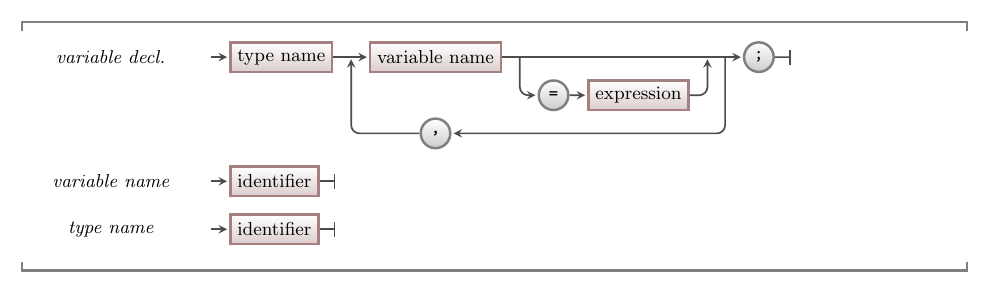
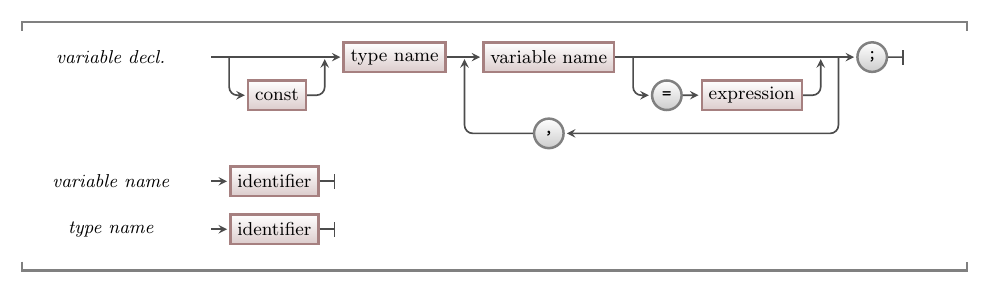
progress variables

Changed region(s): [[0.2128, 0.1229, 0.9119, 0.5222], [0.3343, 0.3993, 0.4863, 0.5222], [0.7295, 0.43, 0.8511, 0.4608]]

diff --git a/src/content/docs/book/part-1-instructions/1-sequence-and-data/1-concepts/08-variable.md b/src/content/docs/book/part-1-instructions/1-sequence-and-data/1-concepts/08-variable.md
@@ -1,5 +1,5 @@
 ---
-title: "Variable"
+title: "Variable and Constant"
 ---
 
 While fixed values are useful, to make programs dynamic you need to be able to work with values that change.
@@ -20,18 +20,37 @@ You need to initialise the variable with a starting value, and you can then read
 
 This is where you start to build your digital reality. Within this reality, you can capture simple values and change these within your code.
 
+## Constants
+
+A **constant** is just like a variable, but its value cannot be changed. Constants are declared within a program and must be given a value when they are created. Once they are created, the value within the constant cannot be changed. This is useful for data that should not change during the program's execution.
+
+<a id="FigureConstant"></a>
+
+![Figure 5.13 Constants have a value that cannot be changed](./images/constant.png "Constants have a value that cannot be changed")
+<div class="caption"><span class="caption-figure-nbr">Figure 5.13: </span> Constants have a value that cannot be changed</div><br/>
+
+## Constants - why, when, and how
+
+*Literals are values that are fixed within the code, so why do we need constants?*
+
+With programming, the biggest challenge is making sure your code is **understandable**. Scattering your program with literal values becomes confusing very quickly. When you see a value like *10* in the code it doesn't mean much - and potentially could represent anything. There will often be lots of these values that are easy to lose track of. Using a **constant** lets you name the value - giving it meaning. When you see `MAX_ITEMS` in the code, you are reminded of its meaning.
+
+Another advantage of using a set constant is that you can change the value in one place. If you want to change the maximum number of items in your pack from 10 to 42, you change it in one place. Updating the value of the constant means that everywhere that reads it will get the new value.
+
 ## In C#
 
-A variable declaration creates a variable in your code. [Figure 5.18](#FigureVariableSyntax) shows the syntax for variable declarations in C#.
+Variable and constant declarations can be described at the same time. [Figure 5.18](#FigureVariableSyntax) shows the syntax for creating a variable or constant in C#. The difference between a variable and a constant is the `const` keyword at the start of the declaration. If you include `const`, you are creating constants. Without it, you are creating variables.
 
 :::tip[Syntax]
 
-- This is the C# Syntax for creating a variable.
-- In C#, the variable declaration starts with the [Type](../06-type) name indicating the kind of data that will be stored.
-- Following the type is a list of the identifiers for the variables you are creating.
-- You can create one or more variables in a single variable declaration, but all of these variables will have the same type.
-- Each variable can be assigned a value when it is declared.
-- The **const** modifier can be added to the start of a variable declaration to create a constant.
+- This is the C# Syntax for creating variables and constants.
+- Add the `const` keyword to the start, to create constants.
+- Next, the [Type](../06-type) indicates the kind of data the constants or variables will store.
+- Following the type is a list of the names (identifiers) for the variables or constants you are creating.
+- You can create one or more variables/constants in a single declaration, all with the same type.
+- Each variable can be assigned a value when it is declared, and constants need to be given their value.
+- By convention, all constants should have an **UPPERCASE** name. Where the name has multiple words, separate them with underscores (`_`). For example: `MAX_ITEMS`.
+- Variables should have a **camelCase** name - where the first letter is lowercase, but each new word in the identifier starts with an uppercase character. For example, `bottleVolume`.
 
 <a id="FigureVariableSyntax"></a>
 
@@ -44,7 +63,7 @@ A variable declaration creates a variable in your code. [Figure 5.18](#FigureVar
 
 ### Basic Example
 
-In this program, we want to capture the user's name and greet them using it.
+In this program, we want to capture the user's name and greet them using it. We need a variable for the name, as it may change each time the program runs. Within the program, the variable will represent the name of the user.
 
 ```csharp
 using static System.Console;
@@ -55,7 +74,7 @@ WriteLine("Welcome to The Greeting");
 WriteLine();
 WriteLine("What is your name?")
 Write("name: ");
-name = Console.ReadLine();
+name = ReadLine();
 
 WriteLine();
 WriteLine("Hello " + name);
@@ -63,60 +82,156 @@ WriteLine("Hello " + name);
 
 <div class="caption"><span class="caption-figure-nbr">Listing 5.14: </span>Example program with varible declaration</div>
 
-### SplashKit Example
+The next example will help us calculate the volume of our water bottles - assuming they are cylinders. To achieve this, we need the following variables:
 
-The following program captures a radius for a circle and uses that to draw to the screen. To achieve this we need two variables, `line` and `radius`. We use `ReadLine` to read a `string` from the user, and `ConvertToDouble` to convert the text read into a `double` value. This value is stored in the `radius` variable, which can then be used in the call to `FillRadius`.
+- A `PI` constant for the calculation.
+- Numbers for `radius` and `height` which the user will enter.
+- A string `line` to store the text the user enters before we convert it to a number.
+- Numbers for `bottleVolume` and `litres` to store calculated values.
 
 ```csharp
+using static System.Console;
+using static System.Convert;
+
+const double PI = 3.1415;
+double radius, height;
+string line;
+double bottleVolume, litres;
+
+WriteLine("Water Bottle Volume");
+WriteLine();
+WriteLine("Enter the radius and height of the bottle in centimeters");
+
+Write("radius: ");
+line = ReadLine();
+radius = ToDouble(line);
+
+Write("height: ");
+line = ReadLine();
+height = ToDouble(line);
+
+bottleVolume = PI * radius * radius * height;
+
+litres = bottleVolume / 1000;
+
+WriteLine();
+WriteLine($"Volume { bottleVolume } cm^3");
+WriteLine($"       { litres } litres");
+```
+
+:::tip
+
+Notice how the names of the variables help us understand how the program works. In this, we are building the things we need in the digital reality that exists as the program runs.
+
+Adding in additional line breaks also helps group the steps in our code to make it more readable.
+
+:::
+
+### SplashKit Example
+
+Now we have calculated the volume of water in a bottle, let's draw it to the screen.
+
+The following program uses a whole range of constants and variables. The constants set up the dimensions of the bottle, and we let the user provide the `percentFull` so that we can calculate the water level.
+
+To help communicate how this works, there is a comment in the code that uses ASCII art to output the bottle's shape and indicate what the different constants and variables represent. Read through the code and match up the comment with the constants, and their calculations. Notice how easy it is to resize the bottle - you can change the radius or height and the other values will all be updated to reflect this.
+
+Also, look at the drawing code. See how the constants help make it clear what is being drawn. Imagine if this were all just raw values. The code would be a jumble of numbers. Creating constants helps make it clearer what you are doing in the code.
+
+```csharp
+using static System.Convert;
 using static SplashKitSDK.SplashKit;
 
 string line;
-double radius;
+int percentFull;
 
-WriteLine("Welcome to Circle Drawer!");
+const int WINDOW_WIDTH = 600;
+const int WINDOW_HEIGHT = 600;
+
+/*-------------------------------------\
+| Water bottle shape...
+|
+| BOTTLE_LEFT_X     BOTTLE_RIGHT_X
+|        |             | 
+|        v             v 
+|          ___________
+|         /           \
+|   ^    |      x      | <-- x = BOTTLE_CENTER_X
+|   |    |\___________/|       + BOTTLE_TOP_Y
+|   |    |             |
+|   |    | ___________ |
+|   |    |/           \|
+|   |    |             | <-- waterY
+|   |    |\___________/| ^
+|   |    | ___________ | | waterHeight
+|   |    |/           \| v
+|   v    |             | <-- BOTTLE_BASE_Y
+|         \___________/
+| BOTTLE_HEIGHT
+|         <-----x-----> BOTTLE_RADIUS
+|        BOTTLE_DIAMETER        
+\-------------------------------------*/
+
+const int BOTTLE_RADIUS = 80;
+const int BOTTLE_HEIGHT = 400;
+const int BOTTLE_DIAMETER = BOTTLE_RADIUS * 2; 
+const int BOTTLE_CENTER_X = WINDOW_WIDTH / 2;
+const int BOTTLE_LEFT_X = BOTTLE_CENTER_X - BOTTLE_RADIUS;
+const int BOTTLE_RIGHT_X = BOTTLE_CENTER_X + BOTTLE_RADIUS;
+const int BOTTLE_BASE_Y = WINDOW_HEIGHT - BOTTLE_RADIUS - 5; // 5 pixel gap
+const int BOTTLE_TOP_Y = BOTTLE_BASE_Y - BOTTLE_HEIGHT;
+
+WriteLine("Water Bottle Visualiser!");
 WriteLine();
-WriteLine("Enter the radius of the circle to draw.");
+WriteLine("How full us your bottle? (0-100)");
 WriteLine();
-Write("Circle radius: ");
+Write("Percent: ");
 line = ReadLine();
 
 // Convert the text entered to a double
-radius = ConvertToDouble(line);
+percentFull = ToInt32(line);
 
-OpenWindow("A House", 800, 600);
+double waterHeight = BOTTLE_HEIGHT * (percentFull / 100.0);
+double waterY = BOTTLE_BASE_Y - waterHeight;
+
+OpenWindow("Your Water Bottle", 600, 600);
 ClearScreen(ColorWhite());
-FillCircle(ColorBlue(), 400, 300, radius);
-RefreshScreen();
-Delay(1000);
 
-radius = radius * 2;
+// Draw the water
+// Circle at the top of the water
+FillCircle(ColorBlue(),  BOTTLE_CENTER_X, waterY, BOTTLE_RADIUS);
+// Circle at the bottom of the bottle
+FillCircle(ColorBlue(),  BOTTLE_CENTER_X, BOTTLE_BASE_Y, BOTTLE_RADIUS);
+DrawCircle(ColorBlack(), BOTTLE_CENTER_X, BOTTLE_BASE_Y, BOTTLE_RADIUS);
+FillRectangle(ColorBlue(), BOTTLE_LEFT_X, waterY, BOTTLE_DIAMETER, waterHeight);
+DrawCircle(ColorBlack(), BOTTLE_CENTER_X, waterY, BOTTLE_RADIUS);
 
-ClearScreen(ColorWhite());
-FillCircle(ColorBlue(), 400, 300, radius);
+// Outline bottle
+// Draw the left wall of the bottle
+DrawLine(ColorBlack(), BOTTLE_LEFT_X, BOTTLE_BASE_Y, BOTTLE_LEFT_X, BOTTLE_TOP_Y);
+// Draw the right wall of the bottle
+DrawLine(ColorBlack(), BOTTLE_RIGHT_X, BOTTLE_BASE_Y, BOTTLE_RIGHT_X, BOTTLE_TOP_Y);
+DrawCircle(ColorBlack(), BOTTLE_CENTER_X, BOTTLE_TOP_Y, BOTTLE_RADIUS);
+
 RefreshScreen();
-Delay(1000);
+Delay(5000);
 ```
-
-
-
-## Activities
-
-[TODO]
 
 
 :::note[Summary]
 
-- A Variable is an **artefact**, you can create variables to store values in your programs.
-- You can think of a Variable like a "box with an item in it". The Variable is the box, its value is the item within it.
+- Variables and constants are **building blocks**, you can create them to store values in your programs.
+- You can think of a variable as a box to note down a value. The variable is the box, its value is written within it.
+
 - Each Variable has a ...
   - **Name** that can be used to refer to it.
   - **Value** that it is storing.
   - **Type** that determines the size of the Variable and how its value is interpreted.
-- You use an [Assignment Statement](../19-assignment-statement) to store a value into the Variable.
-- You can **read** the value from Variable in Expressions.
-- The Variable is **different** to its value:
-  - The Variable is a container into which a value can be stored.
-  - You can read the value from the Variable.
-  - The Variable **is not** the value, it is a container into which the value is stored
+- You use an [Assignment Statement](../19-assignment-statement) to store a value in a variable.
+- Constants are just like variables, but you can only assign them a value when they are created.
+- You can **read** the value from variables and constants in your instructions.
+- Each variable is **different** to its value:
+  - The variable is the container into which a value can be stored.
+  - You can read the value from the variable.
+  - The variable **is not** the value, it has a value but that value can change over time as you write new values into the variable.
 
 :::
